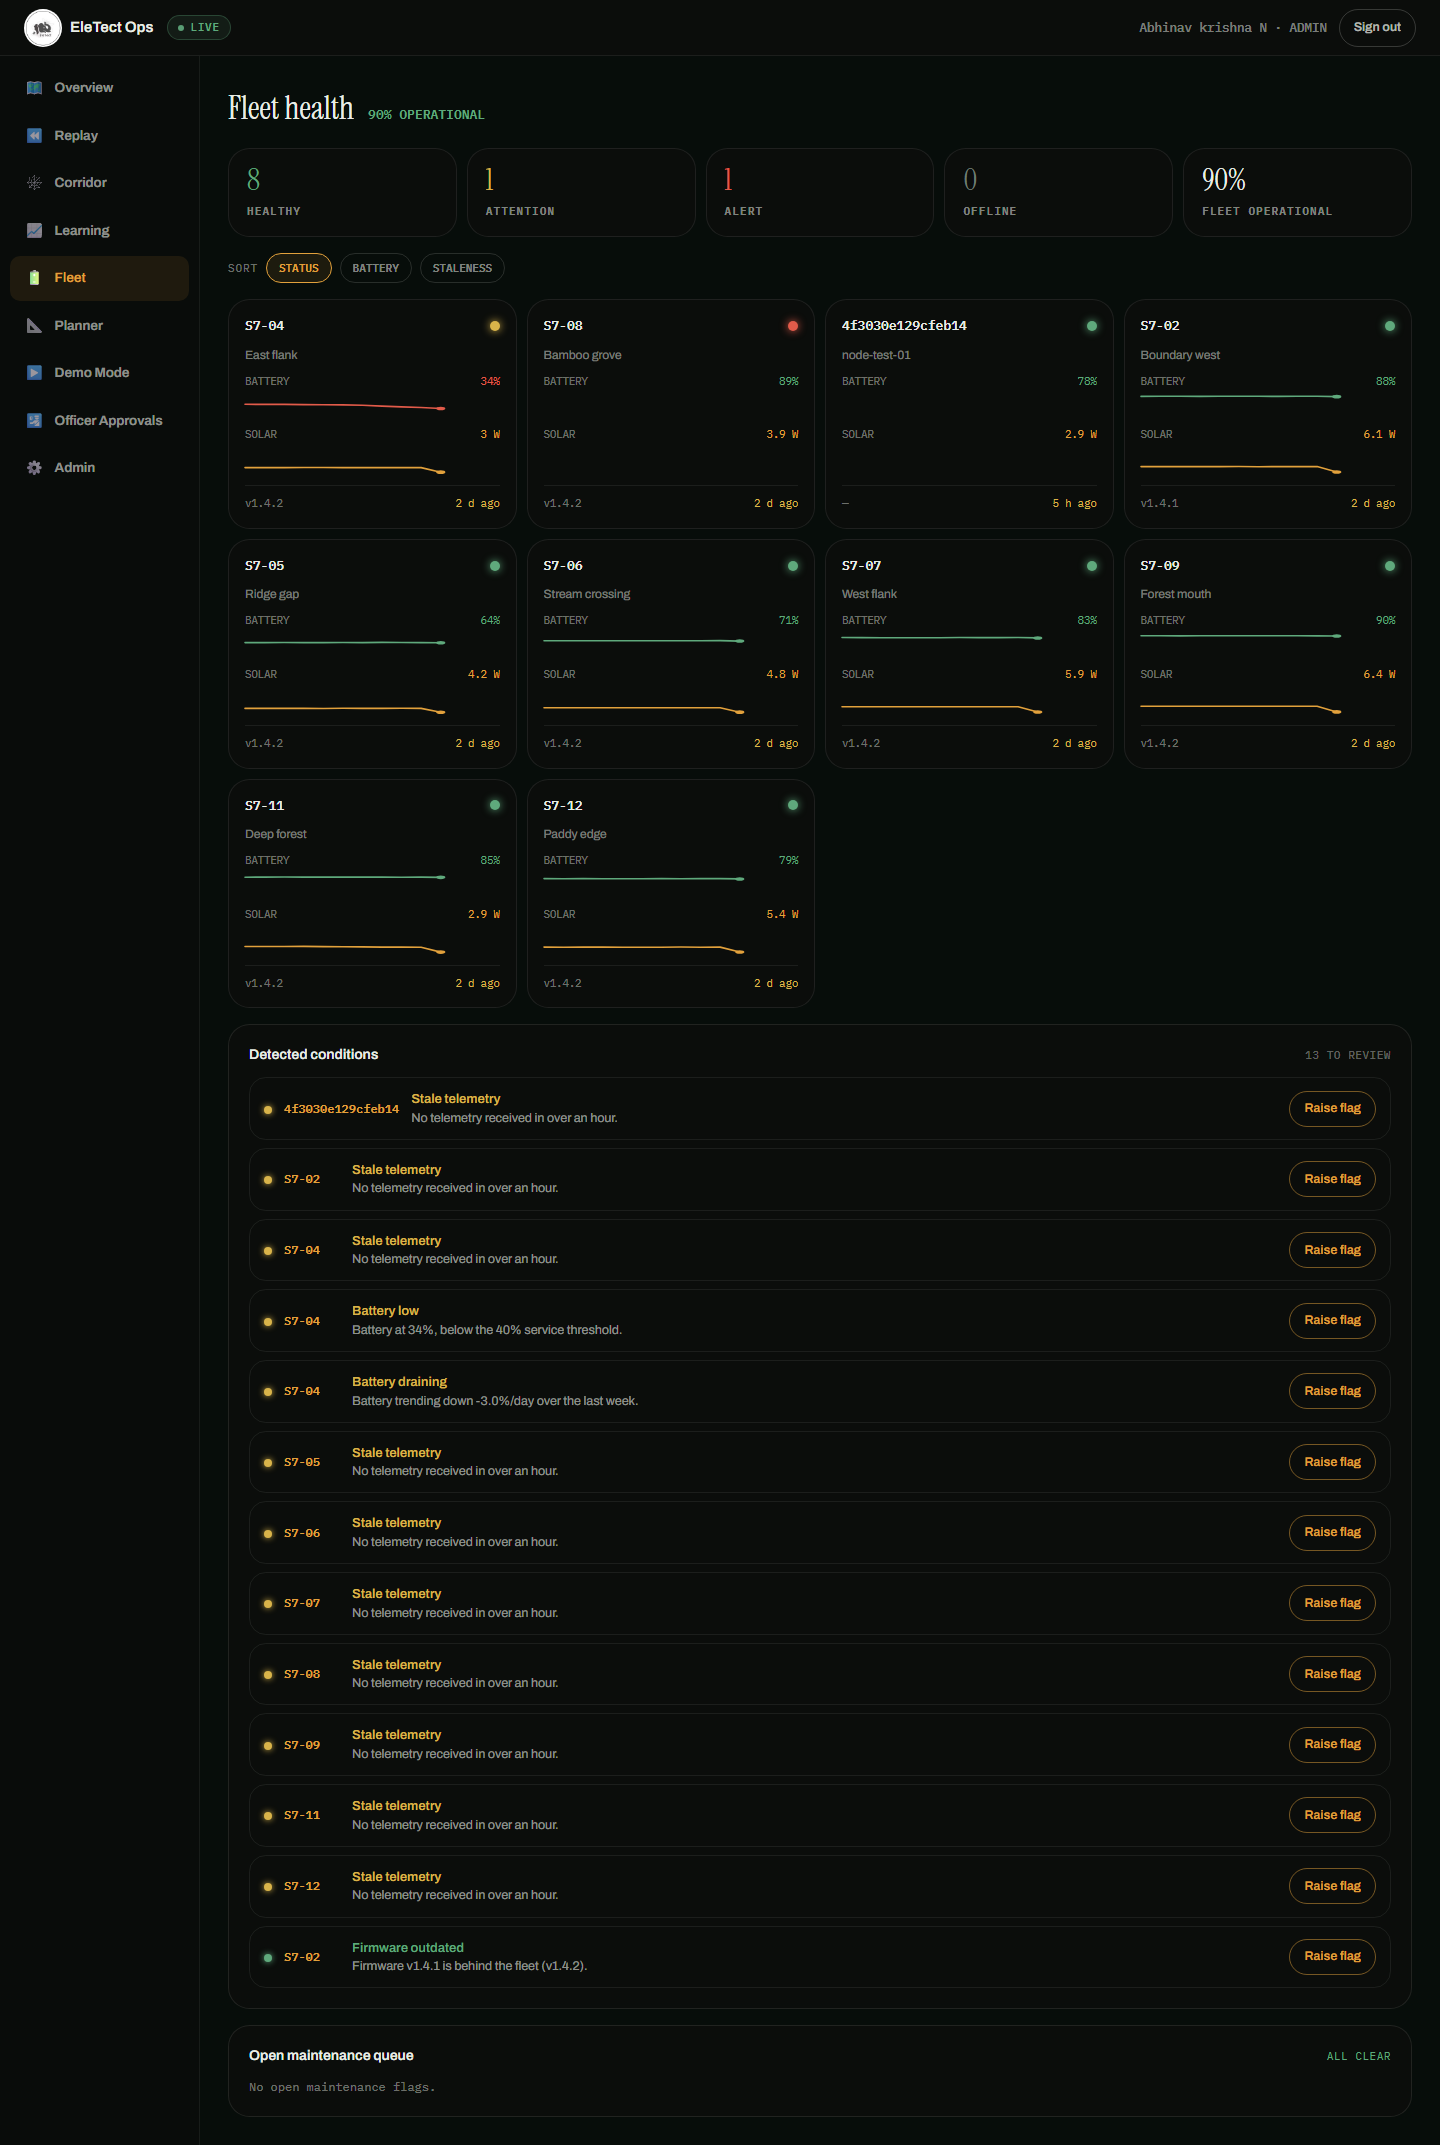
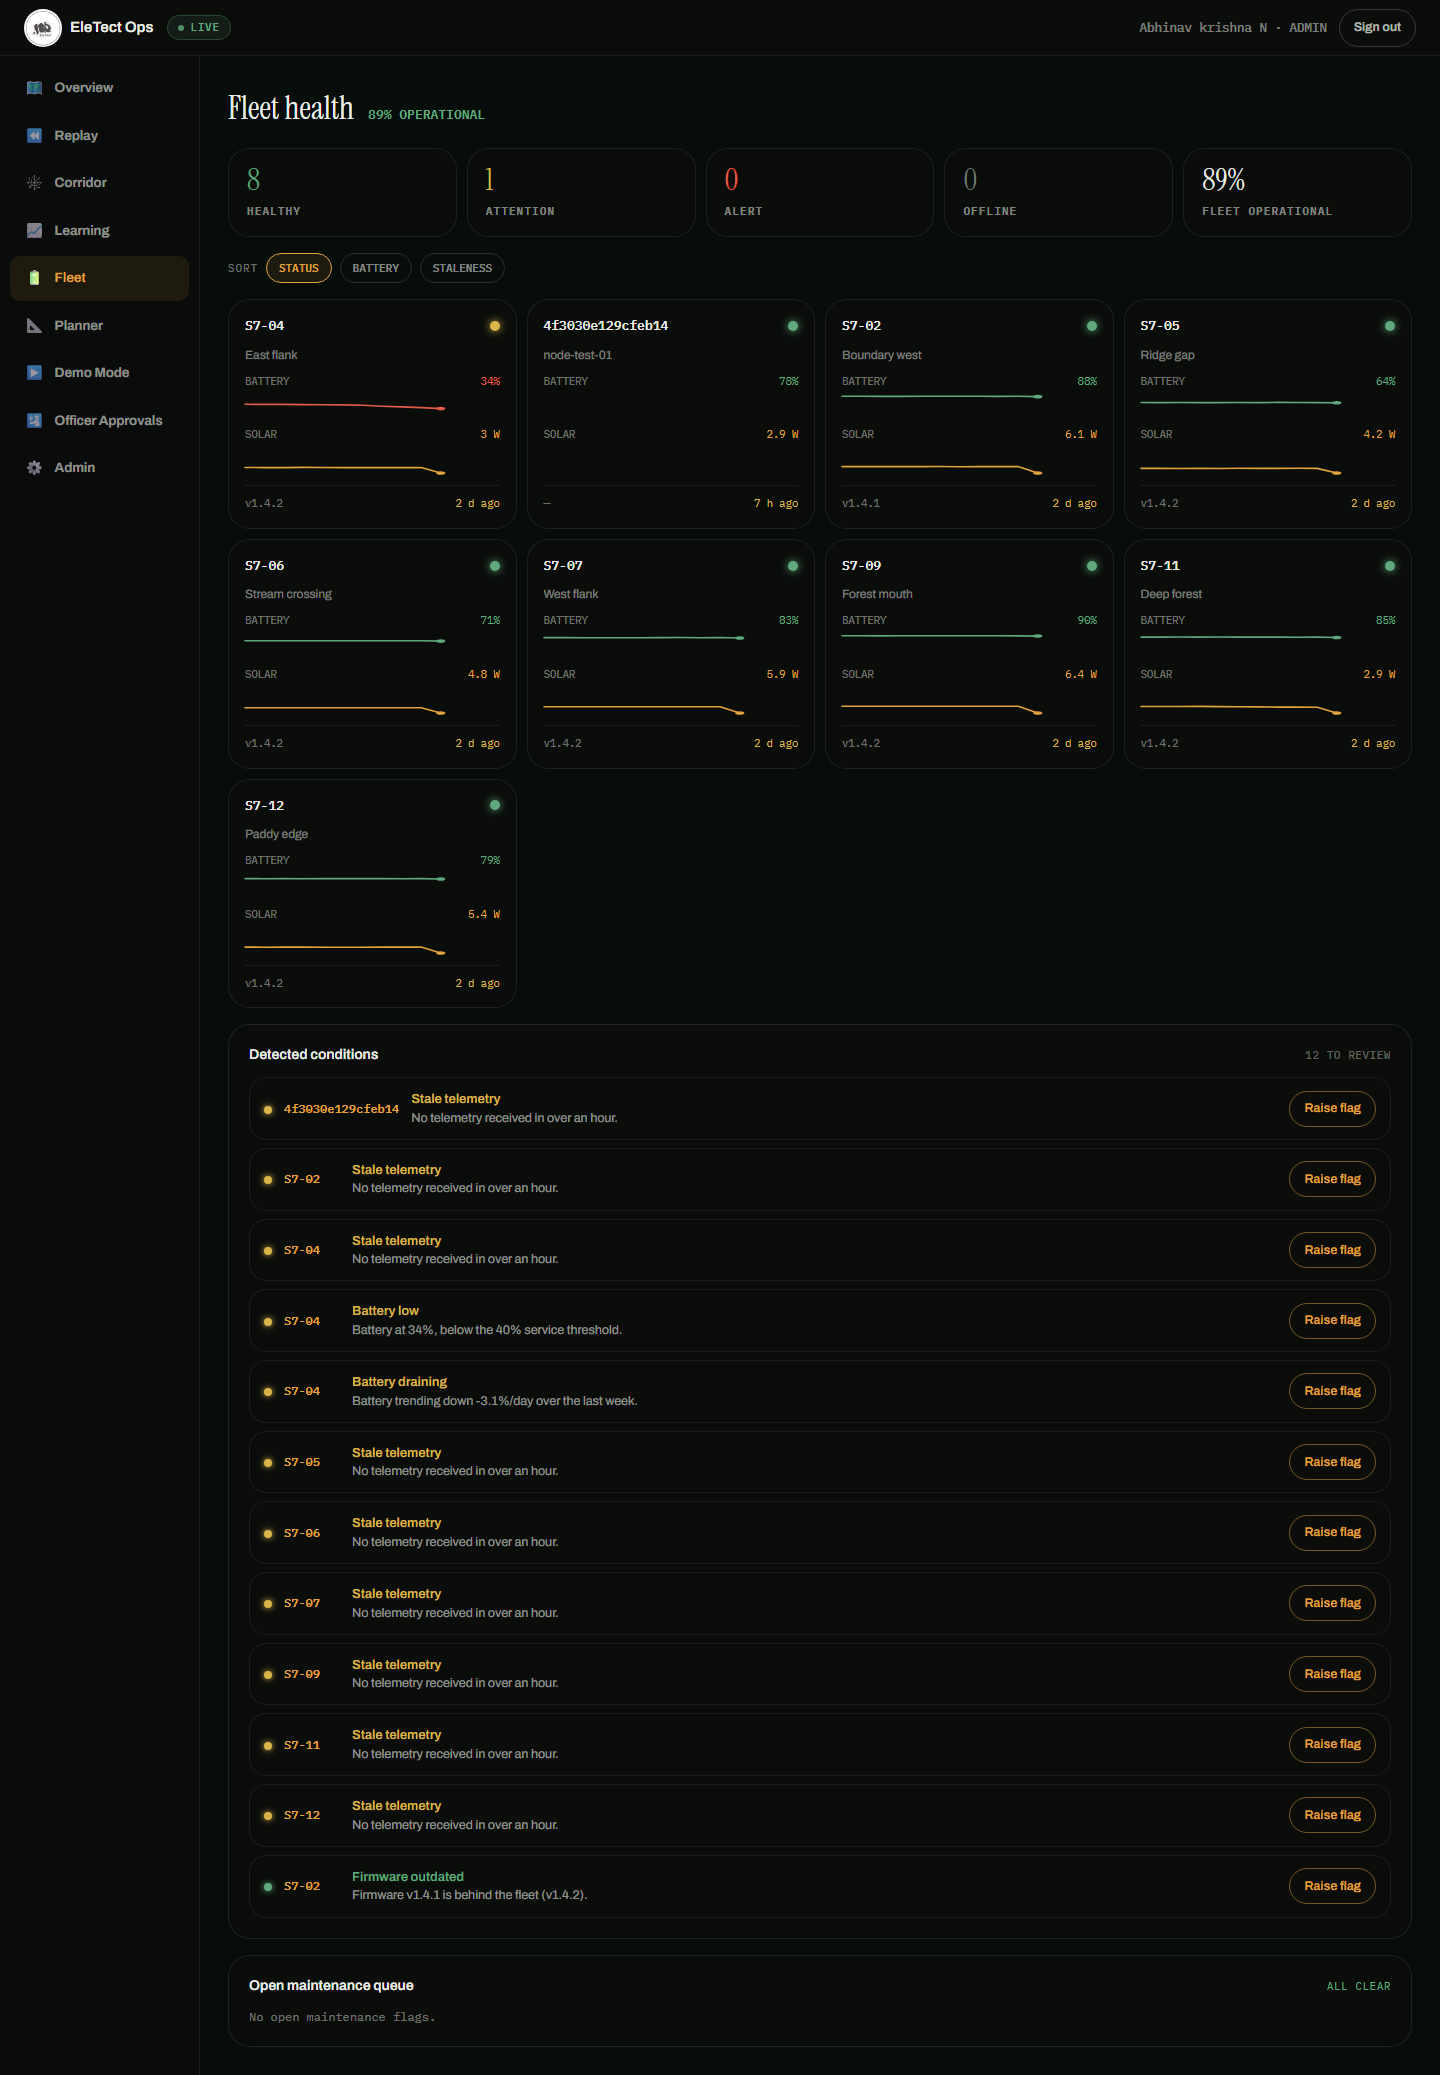
docs: record the production fixes and correct the Day 3 revoke claim
Applies two source-only fixes to the live database and records them: the demo
scenario's seismic signature now reads 22 Hz in the deployed function (patched
from the live definition rather than replayed from schema.sql, so nothing else
about the function could change), and the phantom node S7-08 is deleted.

S7-08 was never in seed-4b.sql and had zero health, events and maintenance rows,
so there was no resting state to restore - it was a leftover from a superseded
seed, sitting on the live map in a permanent alert with nothing behind it. The
live dashboard now shows 0 in the ALERT tile.

Corrects the Day 3 note claiming the demo RPCs revoke execute from public in
schema.sql. Only demo_touch_node does; anon still holds EXECUTE on the others.
The internal is_staff()/is_admin() guards reject every one of them - re-verified
live - so this is a missing second layer, not a hole, and it is carried forward
as a hardening item.

diff --git a/docs/WEBAPP_COMPLETION_PLAN.md b/docs/WEBAPP_COMPLETION_PLAN.md
@@ -147,6 +147,21 @@ no longer depends on the grant alone. Re-verified live afterward — clean rejec
 this closes a gap in an existing security-definer function rather than changing an architectural
 decision. Follow-up housekeeping: delete the throwaway Day 3 test account from Authentication → Users.
 
+**Correction (12 Jul): item 2's premise above is wrong.** It says the demo RPCs "already
+`revoke execute ... from public` in schema.sql". They do not — **`schema.sql` contains exactly one
+`revoke`, and it is for `demo_touch_node`**. `run_demo_scenario` and `reset_demo_data` have never had
+one, so on the live database `PUBLIC`, `anon` and `authenticated` all still hold `EXECUTE` on them
+(confirmed by reading `pg_proc.proacl` directly on 12 Jul). The same is true of
+`approve_officer_request` / `reject_officer_request`.
+
+**This is not a live vulnerability, and the system is not exposed**: every one of these functions
+gates on `is_staff()` / `is_admin()` internally, and a true-anonymous call to each was re-tested live
+on 12 Jul and rejected with `not authorized`. The guard — which is what Day 3's own fix concluded was
+the right defense — is doing the work. What is missing is the *second* layer: anon can reach the
+function body at all, rather than being stopped at the grant. See the closeout for the hardening
+note. The lesson repeats Day 3's: the claim was written from the intent of the code, not from a query
+against the database.
+
 **Correction (12 Jul): the claim above that this account had "no elevated access left" was wrong.**
 When it was deleted during the Day 5/6/7 cleanup it was still `role=officer` — promoted during the
 officer-role section of the adversarial run and never demoted — so it could read every staff table
@@ -382,9 +397,8 @@ pass, delete again.
   that prompted this audit — those accounts only ever get the `public` role, which reads nothing but
   its own profile row, and none currently exist in the project. Still worth moving to the same
   `QA_SEED_PASSWORD`-from-`.env.local` pattern the Day 5 scripts now use.
-- **The live database still serves the old `14 Hz` demo log line**, because `run_demo_scenario`'s
-  body is only updated by re-applying the DDL. Re-apply before any demo where that log text is read
-  aloud.
+- ~~The live database still serves the old `14 Hz` demo log line.~~ **Resolved 12 Jul** — the live
+  `run_demo_scenario` now says `22 Hz`; see the closeout.
 - **Seed-account credentials are env-only, never committed.** The seed script originally hardcoded a
   shared password. That is a committed secret: these accounts live in the *production* project and
   `officer.approved.seed` held the **officer** role, which reads every staff table — so a public repo
@@ -605,8 +619,44 @@ quietly dropped.
    a red build can still land on `main`. Enable it in GitHub → Settings → Branches, requiring the
    `web-frontend` check. `PROJECT_BLUEPRINT.md` §0 has listed this as a day-one action since the start.
 
+### Applied directly to the production database, 12 Jul
+
+Both were source-only fixes until now — a file change does not alter a deployed Postgres function or
+a live row. Run through `supabase db query --linked` (Management API; no DB password, and **not**
+`config push`, which would have reset the live `site_url`).
+
+- **`run_demo_scenario`'s `14 Hz` → `22 Hz` is now live.** Rather than replaying `schema.sql`'s
+  version of the function wholesale — a live definer function has drifted from source before, which
+  is exactly the `demo_touch_node` bug — the fix read the **current live** definition with
+  `pg_get_functiondef()`, replaced only that one string literal, and executed the result (which
+  `pg_get_functiondef` emits as `CREATE OR REPLACE FUNCTION`). So nothing else about the function
+  could change. Verified after: `position('14 Hz' …) = 0`, `position('22 Hz' …) = 1585`, and
+  `SECURITY DEFINER`, the `search_path` setting, the owner, and the internal `is_staff()` guard all
+  intact.
+- **Phantom node `S7-08` deleted.** It was **not in `seed-4b.sql` at all** (which defines exactly
+  eight nodes: S7-02/04/05/06/07/09/11/12) and carried **zero health, zero events, zero maintenance**
+  rows, while every real seeded node has ~170 health and ~30 events. It was a leftover from a
+  superseded seed iteration, sitting on the live map in a permanent `alert` with nothing behind it —
+  so "restore its resting state" had no correct answer; the seed's intent is that it does not exist.
+  Nothing referenced it, so there was nothing to cascade. Confirmed on the live dashboard afterwards:
+  the ALERT tile reads **0** (was 1), the map shows the eight seeded pins, and it is gone from the
+  Fleet roster.
+- **Left in place on purpose:** `4f3030e129cfeb14` ("node-test-01"), the Day 4 ChirpStack ingest test
+  device. It has null coordinates so it draws no map pin, and it is the live proof that the
+  ChirpStack → `web/ingest` → Supabase path works. Revisit before a DFO demo if a stray test device
+  in the fleet roster looks unprofessional.
+
 ### Known gaps, not blocking
 
+- **Defense-in-depth on the definer RPCs: add the missing `revoke`s.** As corrected in the Day 3
+  section above, `anon` currently holds `EXECUTE` on `run_demo_scenario`, `reset_demo_data`,
+  `approve_officer_request` and `reject_officer_request` (and still on `demo_touch_node`, whose Day 3
+  revoke named `public, authenticated` but not `anon`). The internal `is_staff()`/`is_admin()` guards
+  reject every one of them — re-verified live 12 Jul — so this is a hardening item, not a hole. The
+  correct fix is `revoke execute … from public, anon` on all five, **keeping `authenticated`** on
+  `run_demo_scenario` and `reset_demo_data`: staff call those two straight from the browser as the
+  `authenticated` role, so revoking there would break Demo Mode. Apply to `schema.sql` **and** the
+  live database together — a source-only change is precisely the drift this file keeps catching.
 - **DLT registration status: still unfilled.** Nobody has recorded the actual application/approval
   state with the SMS provider. Until then SMS stays gated behind `CHANNEL_SMS=off` and email carries
   delivery. Record the real answer here rather than leaving it an assumption.
@@ -624,12 +674,8 @@ quietly dropped.
 - **`scripts/qa-phase3-screenshots.mjs` hardcodes a password** (`qa-test-pass-123`). Low severity —
   the accounts it creates only ever get the `public` role and none currently exist — but it should
   move to the `QA_SEED_PASSWORD`-from-`.env.local` pattern the Day 5 scripts use.
-- **`S7-08` has sat in `alert` since 10 Jul** with no backing event and a stale `last_seen`. It is
-  seed state, not demo residue (confirmed 12 Jul), but on a live dashboard it reads as an alert that
-  never resolves. Worth cleaning before anyone is shown the production site.
-- **The `14 Hz` demo log line still lives in the production database.** `schema.sql` and the migration
-  both say `22 Hz` now (per ADR 0001 §2), but `run_demo_scenario`'s body only updates when its DDL is
-  re-applied. Re-apply before any demo where that log text is read aloud.
+*(The stale `S7-08` alert state and the `14 Hz` demo log line were both listed here and are now
+resolved against the live database — see "Applied directly to the production database" above.)*
 
 ### Operational note for whoever runs QA next
 
